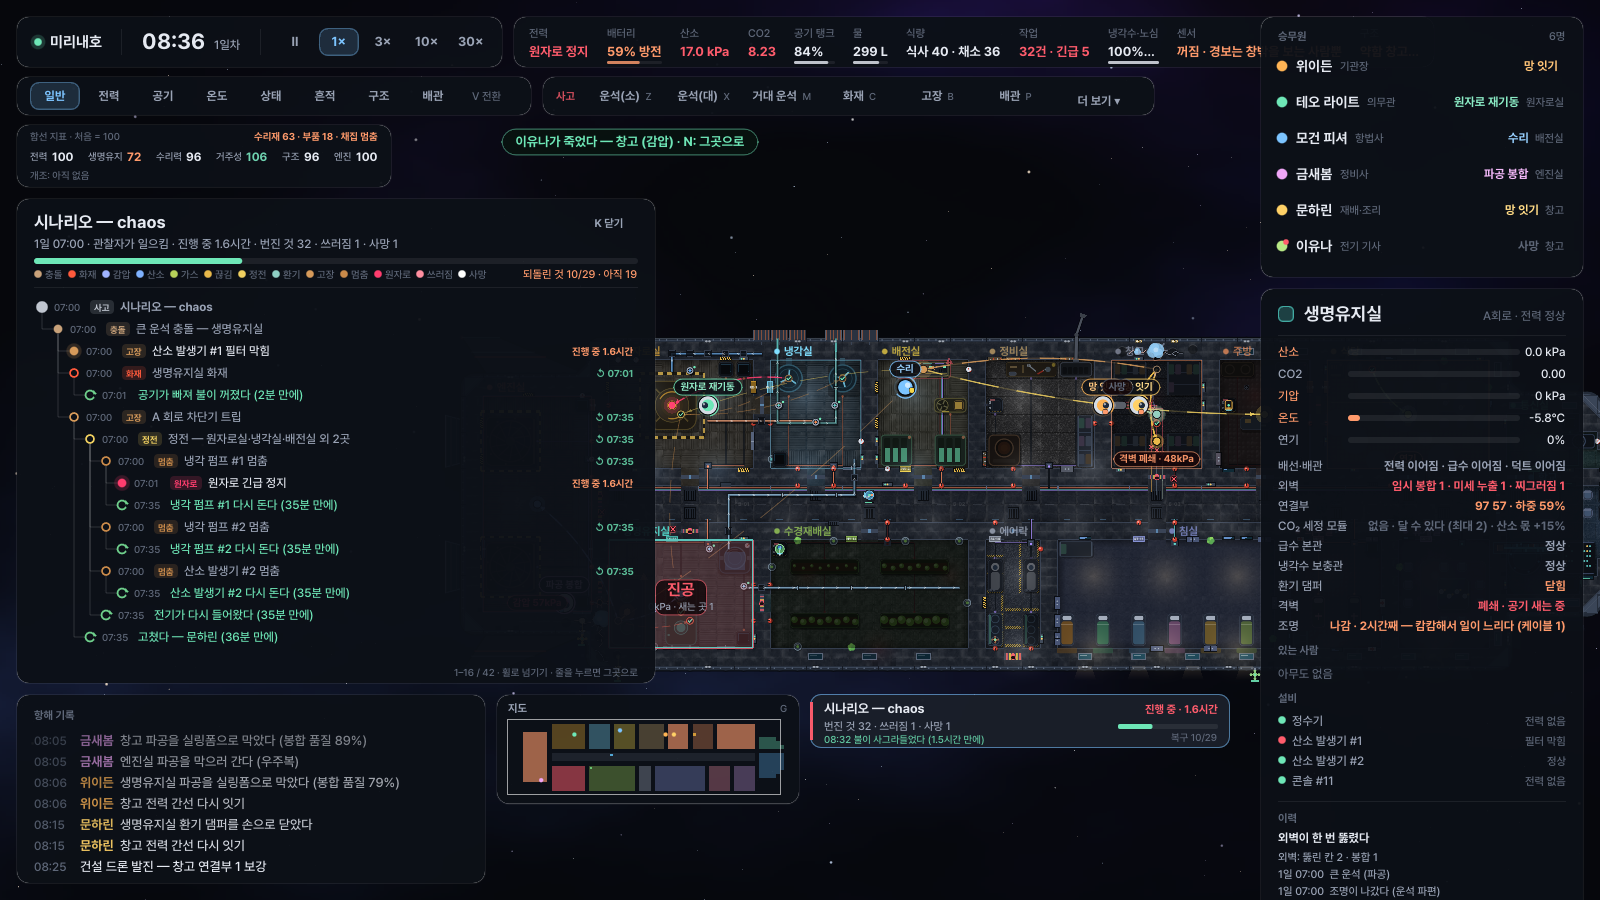
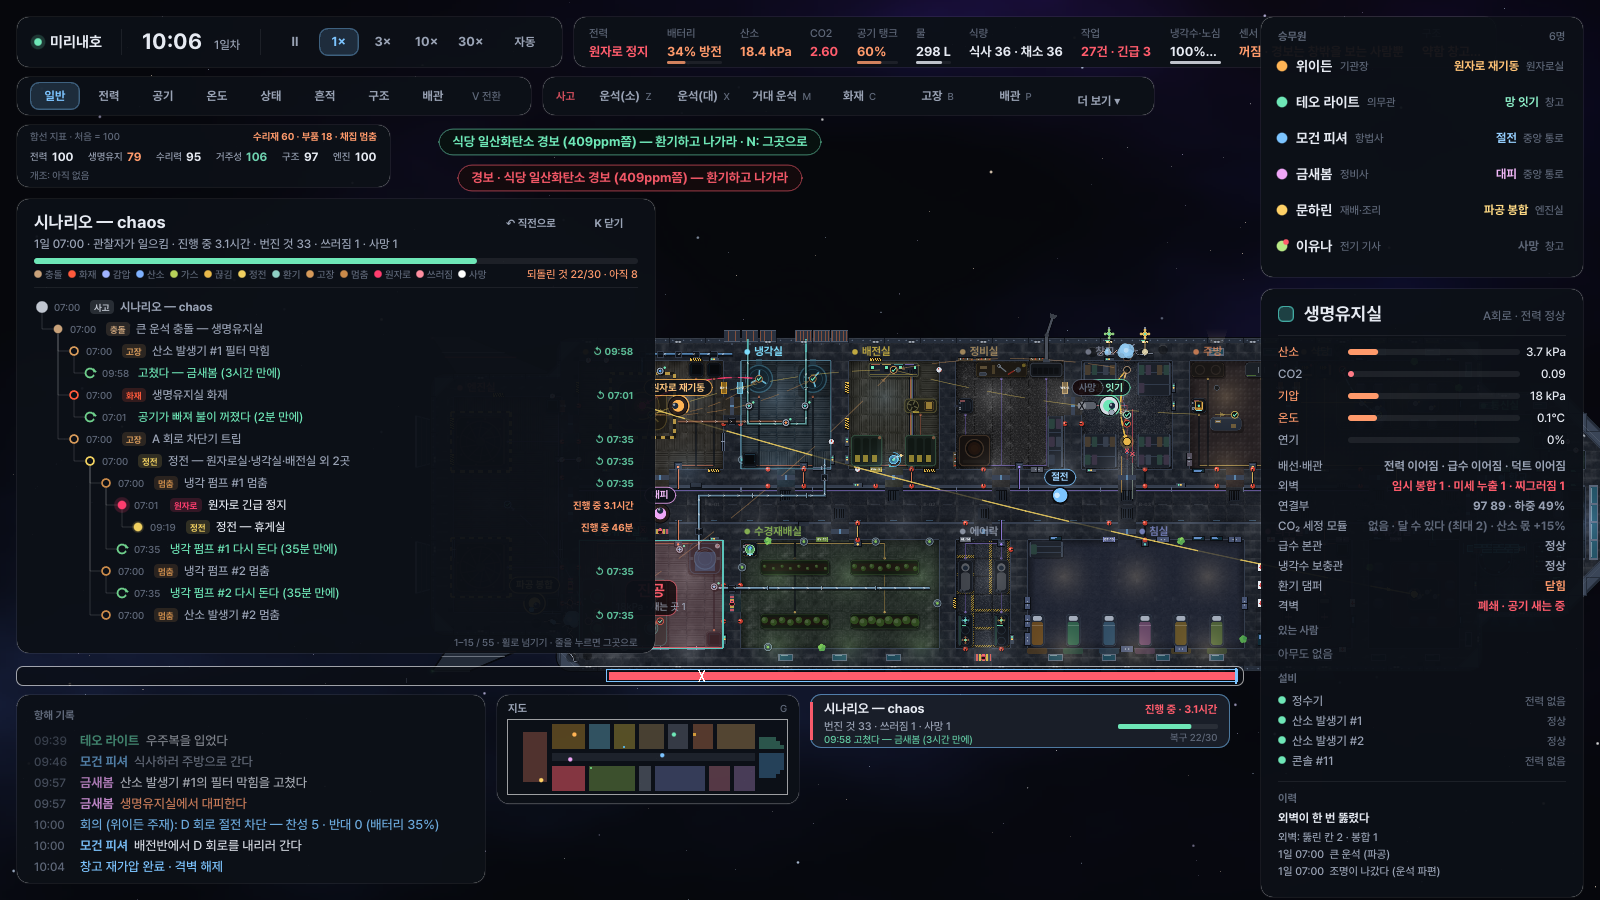
v12.2 (3): 하이라이트 모드(L·자동) · 자동 카메라 · 슬로모션 · 시간 막대 · 운항 중 배경 흐름
- 하이라이트 모드: 방금 일(충돌·폭발·불·감압·원자로 정지·쓰러짐·사망·분리) → 1배속, 번지는 중 → 3배속,
  평온 → 10배속, 한 시간 넘게 평온 → 30배속. 손으로 배속을 고르면 꺼진다. 설정에 저장
- 자동 카메라: 새 현장으로 부드럽게 옮기고 확대, 폭발·사망·분리 순간엔 2.6초 슬로모션 (끌 수 있다)
- 시간 막대: 지난 사흘의 사고 구간(진행 중·수습·사망)과 사망 십자, 지금 — 누르면 그 사슬, 사슬 머리에 '직전으로 되감기'
- 배경: 운항 중 별이 뒤로 흐르고(배속·회피 연소에 비례, 빠르면 늘어짐), 잔해 지대에선 잔해가 돌며 지나간다

Claude-Session: https://claude.ai/code/session_01U2W6DR7W4owqDy6NFo87pX

diff --git a/game/src/View/HudCauses.cs b/game/src/View/HudCauses.cs
@@ -152,7 +152,7 @@ public partial class Hud
         var log = _world.Causes;
         float x0 = Margin, y0 = Margin + 52f + 8f + 40f + 8f + 64f + 10f;
         float w = Mathf.Min(640f, Screen.X - RightColumnWidth - Margin * 3);
-        float height = Screen.Y - y0 - LogHeight - Margin - 10f;
+        float height = Screen.Y - y0 - LogHeight - Margin - 10f - 30f; // 아래에 시간 막대
         var card = new Rect2(x0, y0, w, height);
         _chainRect = card;
         Card(card);
@@ -162,6 +162,7 @@ public partial class Hud
         // 머리: 뿌리 · 상태 · 숫자
         Gfx.Text(this, Fonts.Bold, new Vector2(x, y0 + 30), Fit(root.Text, right - x - 150, 17, Fonts.Bold), 17, Palette.Text);
         Button(new Rect2(right - 58, y0 + 12, 58, 26), "K 닫기", false, mouse, () => OpenChain(null), 11);
+        Button(new Rect2(right - 58 - 92, y0 + 12, 86, 26), "↶ 직전으로", false, mouse, () => _main.RewindTo(inc.Start - SimTime.Minutes(3)), 11);
         int lasting = inc.Nodes.Count(i => log.Node(i).Lasting);
         int open = inc.Nodes.Count(i => log.Node(i).Open);
         string when = $"{SimTime.Day(inc.Start)}일 {SimTime.Clock(inc.Start)}" + (inc.ByObserver ? " · 관찰자가 일으킴" : "");
@@ -251,6 +252,68 @@ public partial class Hud
             Gfx.TextRight(this, Fonts.Body, new Vector2(right, card.End.Y - 8), $"{_chainScroll + 1}–{Math.Min(rows.Count, _chainScroll + fit)} / {rows.Count} · 휠로 넘기기 · 줄을 누르면 그곳으로", 10, Palette.TextMuted);
         else
             Gfx.TextRight(this, Fonts.Body, new Vector2(right, card.End.Y - 8), "줄을 누르면 그곳으로 · 도면 위 화살표가 번진 길", 10, Palette.TextMuted);
+    }
+
+    // ─────────────────────────────── 시간 막대 ───────────────────────────────
+
+    /// <summary>화면 아래 가는 띠: 지난 사흘(짧으면 항해 전체)의 사고 구간·사망·지금. 누르면 그 사고 사슬.</summary>
+    private void DrawTimeBar(Vector2 mouse)
+    {
+        if (ChronicleOpen || TechOpen) return;
+        var log = _world.Causes;
+        float x0 = Margin, x1 = Screen.X - RightColumnWidth - Margin * 2;
+        float y = Screen.Y - Margin - LogHeight - 28f;
+        var strip = new Rect2(x0, y, x1 - x0, 20f);
+        long now = _world.Tick;
+        long span = System.Math.Min(SimTime.TicksPerDay * 3, System.Math.Max(SimTime.Hours(6), now - _world.History.FoundedTick));
+        long start = now - span;
+        float X(long t) => strip.Position.X + 8 + (strip.Size.X - 16) * Mathf.Clamp((t - start) / (float)span, 0f, 1f);
+        Gfx.RoundRect(this, strip, new Color(0.04f, 0.05f, 0.07f, 0.72f), 6, Palette.PanelBorder.WithAlpha(0.6f));
+        _cards.Add(strip);
+        // 눈금: 여섯 시간마다, 날이 바뀌면 굵게
+        long first = (start / SimTime.Hours(6) + 1) * SimTime.Hours(6);
+        for (long t = first; t < now; t += SimTime.Hours(6))
+        {
+            bool day = t % SimTime.TicksPerDay == 0;
+            float tx = X(t);
+            DrawLine(new Vector2(tx, strip.Position.Y + (day ? 3 : 12)), new Vector2(tx, strip.End.Y - 3), Palette.TextMuted.WithAlpha(day ? 0.6f : 0.3f), 1f);
+            if (day) Gfx.Text(this, Fonts.Body, new Vector2(tx + 3, strip.Position.Y + 11), $"{SimTime.Day(t)}일", 9, Palette.TextMuted);
+        }
+        // 사고 구간
+        CauseIncident? hover = null;
+        foreach (var inc in log.Notable())
+        {
+            long end = inc.End >= 0 ? inc.End : now;
+            if (end < start) continue;
+            float a = X(inc.Start), b = Mathf.Max(a + 4f, X(end));
+            var col = inc.Deaths > 0 ? Palette.Danger : inc.Open ? Palette.Warning : Palette.Good.WithAlpha(0.8f);
+            var r = new Rect2(a, strip.Position.Y + 6, b - a, 8);
+            bool sel = ChainIncident == inc;
+            DrawRect(r, col.WithAlpha(sel ? 1f : 0.7f));
+            if (sel) DrawRect(r.Grow(2f), Palette.Accent, false, 1f);
+            var hit = r.Grow(3f);
+            if (hit.HasPoint(mouse)) hover = inc;
+            var captured = inc;
+            _buttons.Add((hit, () => { OpenChain(captured); FocusNode(log.Node(captured.Root)); }));
+            // 사망: 흰 십자
+            foreach (var id in inc.Nodes)
+            {
+                var n = log.Node(id);
+                if (n.Kind != CauseKind.Death || n.Tick < start) continue;
+                float dx = X(n.Tick);
+                DrawLine(new Vector2(dx - 3, strip.Position.Y + 4), new Vector2(dx + 3, strip.End.Y - 4), Colors.White, 1.5f);
+                DrawLine(new Vector2(dx + 3, strip.Position.Y + 4), new Vector2(dx - 3, strip.End.Y - 4), Colors.White, 1.5f);
+            }
+        }
+        // 지금
+        float nx = X(now);
+        DrawLine(new Vector2(nx, strip.Position.Y + 2), new Vector2(nx, strip.End.Y - 2), Palette.Accent, 2f);
+        if (hover != null)
+        {
+            var root = log.Node(hover.Root);
+            string tip = $"{SimTime.Day(hover.Start)}일 {SimTime.Clock(hover.Start)} · {root.Text}" + (hover.Deaths > 0 ? $" · 사망 {hover.Deaths}" : hover.Casualties > 0 ? $" · 쓰러짐 {hover.Casualties}" : "") + " · 누르면 사슬";
+            Gfx.Pill(this, Fonts.Bold, new Vector2(Mathf.Clamp(mouse.X, x0 + 200, x1 - 200), strip.Position.Y - 14), tip, 12, Palette.Text, new Color(0.05f, 0.06f, 0.09f, 0.95f), Palette.PanelBorder, 10f, 5f);
+        }
     }
 
     private bool ScrollChain(InputEventMouseButton mb)

diff --git a/game/src/View/MainHighlight.cs b/game/src/View/MainHighlight.cs
@@ -1,0 +1,77 @@
+using System.Linq;
+using Godot;
+using ShipSim.Core;
+
+namespace ShipSim.View;
+
+/// <summary>
+/// v12.2 하이라이트 모드 (L): 평온하면 빠르게 넘기다가, 사고나 주목할 일이 나면 1배속으로 보여 준다.
+/// 자동 카메라는 그 현장으로 옮겨 가고, 폭발·사망·분리 같은 결정적인 순간엔 잠깐 느리게 흐른다.
+/// </summary>
+public partial class Main
+{
+    private int _seenCauseNodes;
+    private long _hotUntilTick = -1;
+    private long _calmSinceTick = -1;
+    private ulong _slowUntilMsec;
+    private Vector2? _camTarget;
+    private ulong _camUntilMsec;
+    private float _camZoomTarget;
+
+    public bool Highlight => Settings.Highlight;
+    public bool SlowMotion => Settings.Highlight && Settings.AutoCamera && Time.GetTicksMsec() < _slowUntilMsec;
+
+    public void ToggleHighlight()
+    {
+        Settings.Highlight = !Settings.Highlight;
+        Settings.Save();
+        _seenCauseNodes = Sim.Causes.Nodes.Count;
+        ShowNotice(Settings.Highlight ? "하이라이트 모드 — 평온하면 빠르게, 사고가 나면 1배속으로 (L로 끄기)" : "하이라이트 모드 끔 — 배속을 손으로");
+    }
+
+    private static bool Hot(CauseKind k) => k is CauseKind.Impact or CauseKind.Explosion or CauseKind.Fire or CauseKind.Breach
+        or CauseKind.Scram or CauseKind.Casualty or CauseKind.Death or CauseKind.Detach or CauseKind.Hazard;
+
+    /// <summary>매 프레임: 새 고리를 보고 배속·카메라·슬로모션을 정한다.</summary>
+    private void UpdateHighlight(double delta)
+    {
+        var log = Sim.Causes;
+        if (_seenCauseNodes > log.Nodes.Count) _seenCauseNodes = 0; // 되감기·불러오기
+        CauseNode? focus = null;
+        for (; _seenCauseNodes < log.Nodes.Count; _seenCauseNodes++)
+        {
+            var n = log.Nodes[_seenCauseNodes];
+            if (!Hot(n.Kind)) continue;
+            // 관찰자가 방금 일으킨 사고도 보여 준다
+            long hold = n.Kind is CauseKind.Death or CauseKind.Explosion or CauseKind.Scram or CauseKind.Detach ? SimTime.Minutes(40) : SimTime.Minutes(20);
+            _hotUntilTick = System.Math.Max(_hotUntilTick, Sim.Tick + hold);
+            if (n.Kind is CauseKind.Explosion or CauseKind.Death or CauseKind.Detach) _slowUntilMsec = Time.GetTicksMsec() + 2600;
+            if (focus == null || n.Kind is CauseKind.Death or CauseKind.Explosion) focus = n;
+        }
+        if (!Settings.Highlight) return;
+
+        // 카메라: 새 현장으로 부드럽게 (사람이 카메라를 잡고 있지 않을 때)
+        if (focus?.At is System.Numerics.Vector2 at && Settings.AutoCamera && Camera.FollowTarget == null)
+        {
+            _camTarget = ShipView.ToPx(at) + new Vector2(Hud.RightColumnWidth * 0.5f, 0f) / Camera.Zoom.X;
+            _camUntilMsec = Time.GetTicksMsec() + 3500;
+            _camZoomTarget = Mathf.Max(Camera.Zoom.X, focus.Kind is CauseKind.Death or CauseKind.Explosion ? 1.35f : 1.1f);
+        }
+        if (_camTarget is Vector2 t)
+        {
+            float k = 1f - Mathf.Exp(-3.5f * (float)delta);
+            Camera.Position = Camera.Position.Lerp(t, k);
+            float z = Mathf.Lerp(Camera.Zoom.X, Mathf.Min(_camZoomTarget, CameraRig.MaxZoom), k * 0.6f);
+            Camera.Zoom = new Vector2(z, z);
+            if (Time.GetTicksMsec() > _camUntilMsec) _camTarget = null;
+        }
+
+        // 배속: 방금 일 → 1배속, 번지는 중 → 3배속, 평온 → 10배속, 오래 평온 → 30배속
+        bool serious = log.Incidents.Any(i => i.Open && i.Nodes.Any(id => log.Node(id) is { Open: true } n2
+            && n2.Kind is CauseKind.Fire or CauseKind.Breach or CauseKind.Suffocation or CauseKind.Gas or CauseKind.Casualty or CauseKind.Scram));
+        if (Sim.Tick < _hotUntilTick || serious) _calmSinceTick = -1;
+        else if (_calmSinceTick < 0) _calmSinceTick = Sim.Tick;
+        int want = Sim.Tick < _hotUntilTick ? 0 : serious ? 1 : Sim.Tick - _calmSinceTick < SimTime.Hours(1) ? 2 : 3;
+        if (want != SpeedIndex) SpeedIndex = want; // 일시정지는 건드리지 않는다
+    }
+}

diff --git a/game/src/View/Starfield.cs b/game/src/View/Starfield.cs
@@ -25,6 +25,12 @@ public partial class Starfield : Node2D
     public float Storm { get; set; }
     private float _storm;
 
+    /// <summary>v12.2 운항: 배가 앞으로 가는 빠르기 (화면 px/초, 가장 가까운 별 기준). 별이 뒤로 흐른다.</summary>
+    public float Cruise { get; set; }
+    /// <summary>v12.2 잔해 지대: 잔해 알갱이가 지나간다.</summary>
+    public bool Debris { get; set; }
+    private float _travel, _cruise;
+
     public override void _Ready()
     {
         var rng = new RandomNumberGenerator { Seed = 1977 };
@@ -48,6 +54,8 @@ public partial class Starfield : Node2D
     public override void _Process(double delta)
     {
         _time += (float)delta;
+        _cruise = Mathf.Lerp(_cruise, Cruise, 1f - Mathf.Exp(-3f * (float)delta)); // 배속이 바뀌면 부드럽게
+        _travel += _cruise * (float)delta;
         QueueRedraw();
     }
 
@@ -58,7 +66,7 @@ public partial class Starfield : Node2D
         // 옅은 성운 (v10: 생성한 성운 무늬를 아주 느린 시차로)
         if (Textures.Nebula is Texture2D neb)
         {
-            var shift = CameraPosition * 0.008f;
+            var shift = CameraPosition * 0.008f + new Vector2(_travel * 0.01f, 0f);
             var r = new Rect2(-size * 0.15f - shift, size * 1.3f);
             DrawTextureRect(neb, r, false, new Color(1f, 1f, 1f, 0.9f));
         }
@@ -92,13 +100,31 @@ public partial class Starfield : Node2D
 
         foreach (var s in _stars)
         {
-            var shift = CameraPosition * (0.015f + 0.05f * s.Depth);
+            var shift = CameraPosition * (0.015f + 0.05f * s.Depth) + new Vector2(_travel * (0.15f + 0.85f * s.Depth * s.Depth), 0f);
             float x = Mathf.PosMod(s.Uv.X * size.X - shift.X, size.X);
             float y = Mathf.PosMod(s.Uv.Y * size.Y - shift.Y, size.Y);
             float a = s.Brightness * (0.75f + 0.25f * Mathf.Sin(_time * (0.6f + s.Depth) + s.Twinkle));
             var color = new Color(s.Tint.R, s.Tint.G, s.Tint.B, a);
+            float streak = Mathf.Min(26f, _cruise * 0.05f * s.Depth * s.Depth);
+            if (streak > 1.5f) DrawLine(new Vector2(x, y), new Vector2(x + streak, y), color.WithAlpha(a * 0.55f), s.Size * 0.8f, true); // 빨리 갈 때 별이 늘어진다
             if (s.Size < 1.1f) DrawRect(new Rect2(x, y, 1f, 1f), color);
             else DrawCircle(new Vector2(x, y), s.Size * 0.6f, color, true, -1f, true);
+        }
+        // v12.2 잔해 지대: 크고 작은 잔해가 앞에서 뒤로 지나간다 (돌면서)
+        if (Debris)
+        {
+            for (int i = 0; i < 26; i++)
+            {
+                float depth = 0.3f + 0.7f * Mathf.PosMod(i * 0.618f, 1f);
+                float u = Mathf.PosMod(i * 0.3719f - _travel * (0.0006f + 0.0024f * depth), 1f);
+                float v = Mathf.PosMod(i * 0.2113f + 0.05f * Mathf.Sin(_time * 0.2f + i), 1f);
+                var c = new Vector2(u * size.X, v * size.Y);
+                float r = 1.2f + 3.5f * depth * Mathf.PosMod(i * 0.77f, 1f);
+                float rot = _time * (0.3f + i * 0.05f) + i;
+                var pts = new Vector2[5];
+                for (int k = 0; k < 5; k++) pts[k] = c + new Vector2(Mathf.Cos(rot + k * 1.26f), Mathf.Sin(rot + k * 1.26f)) * r * (0.7f + 0.3f * Mathf.PosMod(i * k * 0.37f, 1f));
+                DrawColoredPolygon(pts, new Color(0.42f, 0.40f, 0.38f, 0.35f + 0.4f * depth));
+            }
         }
     }
 

diff --git a/game/src/View/Main.cs b/game/src/View/Main.cs
@@ -228,7 +228,7 @@ public partial class Main : Node2D
         }
         else if (!Paused)
         {
-            _accumulator += delta * Speeds[SpeedIndex] * SimTime.TicksPerSecond;
+            _accumulator += delta * Speeds[SpeedIndex] * (SlowMotion ? 0.3 : 1.0) * SimTime.TicksPerSecond; // v12.2 결정적 순간엔 느리게
             int steps = (int)Math.Floor(_accumulator);
             if (steps > MaxStepsPerFrame)
             {
@@ -244,8 +244,12 @@ public partial class Main : Node2D
             WatchAlerts();
         }
 
+        UpdateHighlight(delta); // v12.2 하이라이트 모드 · 자동 카메라
         UpdateHover();
         _stars.CameraPosition = Camera.Position;
+        // v12.2 운항: 별이 뒤로 흐른다 (배속에 비례, 회피 기동 연소 중엔 더 빠르게), 잔해 지대에선 잔해가 지나간다
+        _stars.Cruise = Paused || Replaying != null ? 0f : 7f * Speeds[SpeedIndex] * (SlowMotion ? 0.3f : 1f) * (Sim.Propulsion.Burning ? 3f : 1f);
+        _stars.Debris = Sim.Propulsion.Zone == ZoneKind.Debris;
         _stars.Storm = Sim.Hazards.StormActive ? 1f : 0f;
 
         if (_screenshotFrames > 0 && --_screenshotFrames == 0) TakeScreenshotAndQuit();
@@ -316,6 +320,13 @@ public partial class Main : Node2D
         else if (Sim.Alerts.LastOrDefault(a => a.Level == AlertLevel.Critical) is Alert a) tick = a.Tick;
         if (tick < 0) { ShowNotice("되감을 사건이 없다 ([ ]로 사고를 고르거나, 치명 경보가 난 뒤에)"); return; }
         _pendingLoad = Core.SaveGame.WriteAt(Sim, Math.Max(0, tick - SimTime.Minutes(3)));
+        GetTree().CallDeferred(SceneTree.MethodName.ReloadCurrentScene);
+    }
+
+    /// <summary>v12.2 그 틱의 조금 전으로 되감는다 (사고 사슬의 '직전으로').</summary>
+    public void RewindTo(long tick)
+    {
+        _pendingLoad = Core.SaveGame.WriteAt(Sim, Math.Max(0, tick));
         GetTree().CallDeferred(SceneTree.MethodName.ReloadCurrentScene);
     }
 
@@ -441,6 +452,7 @@ public partial class Main : Node2D
                 case Key.P: ToggleTool(IncidentTool.PipeBurst); break;
                 case Key.J: Hud.ToggleChronicle(); break;
                 case Key.K: Hud.ToggleChain(); break;
+                case Key.L: ToggleHighlight(); break;
                 case Key.G: Hud.ToggleMinimap(); break;
                 case Key.T: Hud.ToggleTech(); break;
                 case Key.F5: SaveGame(); break;
@@ -464,6 +476,7 @@ public partial class Main : Node2D
     {
         SpeedIndex = Math.Clamp(index, 0, Speeds.Length - 1);
         Paused = false;
+        if (Settings.Highlight) { Settings.Highlight = false; Settings.Save(); ShowNotice("배속을 손으로 골라 하이라이트 모드를 껐다 (L로 다시)"); }
     }
 
     public void CycleView(int dir)

diff --git a/game/src/View/Settings.cs b/game/src/View/Settings.cs
@@ -33,6 +33,12 @@ public static class Settings
     /// <summary>v12.0: 새 항해에서 승무원이 죽을 수 있다 (기본 켜짐 — 쓰러진 채 체력이 바닥나면). 끄면 쓰러진 채 버틴다.</summary>
     public static bool Death { get; set; } = true;
 
+    /// <summary>v12.2 하이라이트 모드: 평온하면 빠르게, 사고·주목할 일이 나면 1배속으로.</summary>
+    public static bool Highlight { get; set; }
+
+    /// <summary>v12.2 하이라이트 모드에서 카메라가 사고 현장으로 가고, 결정적인 순간엔 느리게.</summary>
+    public static bool AutoCamera { get; set; } = true;
+
     /// <summary>v10.7: 새 항해의 배 ("auto"면 인원에 맞는 배).</summary>
     public static string Ship { get; set; } = "auto";
 
@@ -73,6 +79,8 @@ public static class Settings
         Crew = Mathf.Clamp(cfg.GetValue("voyage", "crew", Crew).AsInt32(), 1, ShipSim.Core.World.MaxCrew);
         Ship = cfg.GetValue("voyage", "ship", Ship).AsString();
         Death = cfg.GetValue("voyage", "death", Death).AsBool();
+        Highlight = cfg.GetValue("play", "highlight", Highlight).AsBool();
+        AutoCamera = cfg.GetValue("play", "auto_camera", AutoCamera).AsBool();
     }
 
     public static void Save()
@@ -87,6 +95,8 @@ public static class Settings
         cfg.SetValue("voyage", "crew", Crew);
         cfg.SetValue("voyage", "ship", Ship);
         cfg.SetValue("voyage", "death", Death);
+        cfg.SetValue("play", "highlight", Highlight);
+        cfg.SetValue("play", "auto_camera", AutoCamera);
         cfg.Save(Path);
     }
 }
@@ -160,6 +170,8 @@ public partial class OptionsPanel : PanelContainer
         box.AddChild(crewLabel);
         box.AddChild(crew);
         box.AddChild(Check("승무원이 죽을 수 있다 (새 항해부터)", Settings.Death, on => Settings.Death = on)); // v12.0
+        box.AddChild(Check("하이라이트 모드: 평온하면 빠르게, 사고가 나면 1배속 (L)", Settings.Highlight, on => Settings.Highlight = on)); // v12.2
+        box.AddChild(Check("하이라이트 모드에서 카메라가 사고 현장으로 · 결정적 순간 슬로모션", Settings.AutoCamera, on => Settings.AutoCamera = on));
         var voyage = new HBoxContainer();
         voyage.AddThemeConstantOverride("separation", 8);
         var same = new Button { Text = "같은 시드로 새 항해" };

diff --git a/game/src/View/Hud.cs b/game/src/View/Hud.cs
@@ -98,6 +98,7 @@ public partial class Hud : Control
         DrawLog();
         DrawMinimap(); // v11.3
         DrawIncidentCards(mouse); // v12.2 사고 카드
+        if (_world.Causes.Notable().Any()) DrawTimeBar(mouse); // v12.2 시간 막대
         if (ChainOpen) DrawChain(mouse); // v12.2 인과 사슬
         else if (ChronicleOpen) DrawChronicle(mouse);
         else if (TechOpen) DrawTech(mouse);
@@ -170,7 +171,7 @@ public partial class Hud : Control
         float dayW = Gfx.Width(Fonts.Body, day, 12);
         const float btnW = 40f, btnGap = 4f;
         float speedW = labels.Length * btnW + (labels.Length - 1) * btnGap;
-        float w = 18 + 16 + nameW + 20 + 20 + clockW + 8 + dayW + 20 + 14 + speedW + 12;
+        float w = 18 + 16 + nameW + 20 + 20 + clockW + 8 + dayW + 20 + 14 + speedW + 8 + 52 + 12;
 
         var card = new Rect2(Margin, Margin, w, 52f);
         Card(card);
@@ -202,6 +203,9 @@ public partial class Hud : Control
             int speed = i - 1;
             Button(rect, labels[i], active, mouse, i == 0 ? _main.TogglePause : () => _main.SetSpeed(speed));
         }
+        // v12.2 하이라이트 모드: 배속을 저절로
+        var auto = new Rect2(x + labels.Length * (btnW + btnGap) + 4, cy - 14f, 52f, 28f);
+        Button(auto, _main.SlowMotion ? "느리게" : "자동", _main.Highlight, mouse, _main.ToggleHighlight, 12);
         return card.End.X;
     }
 
